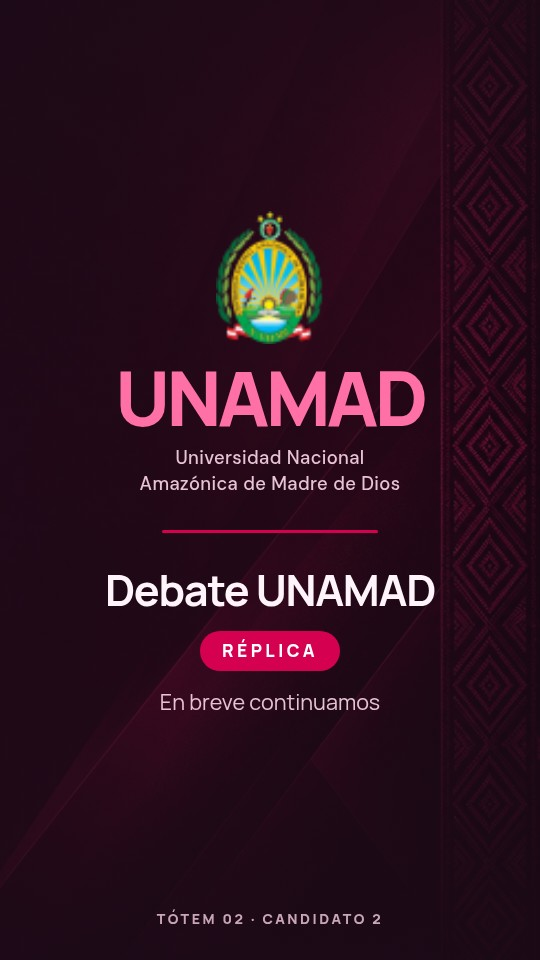
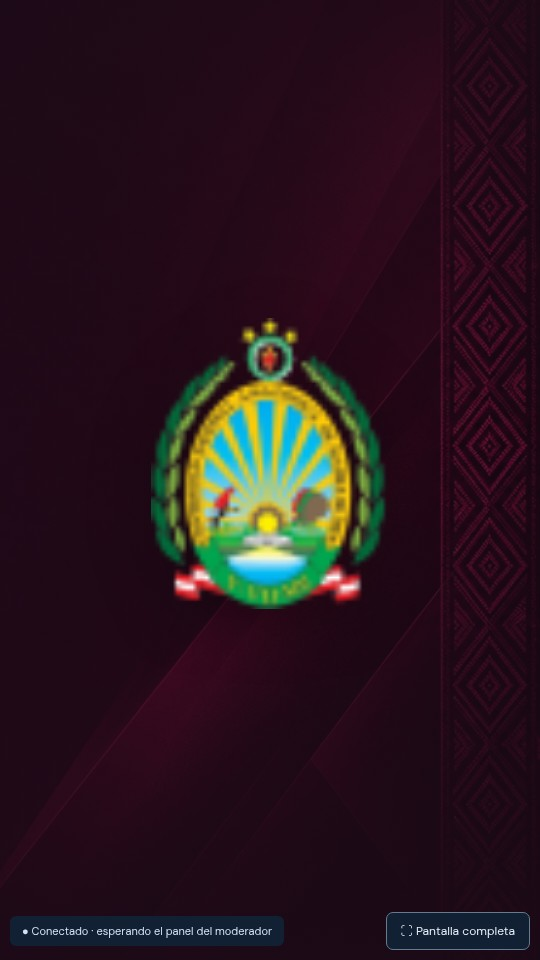
Fondo de espera solo con el escudo de la UNAMAD, sin texto

Changed region(s): [[0.1778, 0.2188, 0.8, 0.75], [0.0, 0.9375, 0.9778, 1.0]]

diff --git a/public/app.js b/public/app.js
@@ -68,12 +68,6 @@ function standbyOn() {
   idleSince ??= Date.now();
   return state.standby.enabled && Date.now() - idleSince >= STANDBY_DELAY;
 }
-const debateStarted = () =>
-  state.candidates.some((c) =>
-    Object.values(c.spoken || {}).some((ms) => ms > 0),
-  );
-const waitingText = () =>
-  debateStarted() ? "En breve continuamos" : "El debate comenzará en breve";
 // Carga una imagen guardada en un <img>; holder recuerda cuál está puesta.
 function showAsset(holder, img, asset, alt) {
   if (holder.dataset.asset === asset) return;
@@ -848,7 +842,7 @@ function renderDisplay() {
   }
   document.title = "Tótem " + displayId + " — Debate UNAMAD";
   $("app").innerHTML =
-    `<section class="signage-screen" id="projection">${Totem.stageHTML()}<div class="standby-screen" id="standby" hidden><img class="standby-image" id="standby-image" alt="" hidden><div class="standby-default"><img class="standby-crest" src="assets/unamad-escudo-oficial.png" alt="Escudo de la UNAMAD"><div class="standby-wordmark">UNAMAD<span>Universidad Nacional Amazónica de Madre de Dios</span></div><div class="standby-rule"></div><h1 id="standby-event"></h1><p class="standby-round" id="standby-round"></p><p class="standby-note" id="standby-note"></p><p class="standby-seat" id="standby-seat"></p></div></div><div class="unassigned-note" id="unassigned" hidden><img src="assets/unamad-escudo-oficial.png" alt=""><strong>Tótem ${displayId}</strong><span>Sin candidato asignado</span><small>El moderador puede agregarlo en «Configurar debate».</small></div>${screenTools}</section>`;
+    `<section class="signage-screen" id="projection">${Totem.stageHTML()}<div class="standby-screen" id="standby" hidden><img class="standby-image" id="standby-image" alt="" hidden><div class="standby-default"><img class="standby-crest" src="assets/unamad-escudo-oficial.png" alt="Escudo de la UNAMAD"></div></div><div class="unassigned-note" id="unassigned" hidden><img src="assets/unamad-escudo-oficial.png" alt=""><strong>Tótem ${displayId}</strong><span>Sin candidato asignado</span><small>El moderador puede agregarlo en «Configurar debate».</small></div>${screenTools}</section>`;
   setupScreen($("projection"));
 }
 function renderOverview() {
@@ -868,7 +862,7 @@ function renderPublic() {
   document.body.classList.add("display-body", "overview-body");
   document.title = "Pantalla del público — Debate UNAMAD";
   $("app").innerHTML =
-    `<section class="public-screen" id="public">${brandHead("pub")}<div class="public-body" id="pub-body"><div class="public-photo" id="pub-photo"><img id="pub-image" alt="" hidden><div class="public-placeholder"><svg viewBox="0 0 160 190" fill="none" aria-hidden="true"><circle cx="80" cy="57" r="32" fill="currentColor"/><path d="M15 182v-17a65 65 0 0 1 130 0v17" fill="currentColor"/></svg></div></div><div class="public-info"><span class="public-label" id="pub-label"></span><h1 id="pub-name"></h1><p id="pub-role"></p><div class="public-clock"><span class="public-caption" id="pub-caption"></span><div class="public-time" id="pub-time"></div><div class="public-status"><i></i><span id="pub-status"></span></div><div class="ov-track"><div id="pub-progress"></div></div></div></div></div><div class="public-empty" id="pub-empty" hidden><img class="public-empty-crest" src="assets/unamad-escudo-oficial.png" alt="Escudo de la UNAMAD"><div class="standby-wordmark">UNAMAD<span>Universidad Nacional Amazónica de Madre de Dios</span></div><h1 id="pub-empty-title"></h1><p id="pub-empty-sub"></p></div><img class="public-standby-image" id="pub-standby-image" alt="" hidden>${screenTools}</section>`;
+    `<section class="public-screen" id="public">${brandHead("pub")}<div class="public-body" id="pub-body"><div class="public-photo" id="pub-photo"><img id="pub-image" alt="" hidden><div class="public-placeholder"><svg viewBox="0 0 160 190" fill="none" aria-hidden="true"><circle cx="80" cy="57" r="32" fill="currentColor"/><path d="M15 182v-17a65 65 0 0 1 130 0v17" fill="currentColor"/></svg></div></div><div class="public-info"><span class="public-label" id="pub-label"></span><h1 id="pub-name"></h1><p id="pub-role"></p><div class="public-clock"><span class="public-caption" id="pub-caption"></span><div class="public-time" id="pub-time"></div><div class="public-status"><i></i><span id="pub-status"></span></div><div class="ov-track"><div id="pub-progress"></div></div></div></div></div><div class="public-empty" id="pub-empty" hidden><img class="public-empty-crest" src="assets/unamad-escudo-oficial.png" alt="Escudo de la UNAMAD"></div><img class="public-standby-image" id="pub-standby-image" alt="" hidden>${screenTools}</section>`;
   setupScreen($("public"));
 }
 function renderSpeaker() {
@@ -891,12 +885,8 @@ function paintPublic() {
     c ? "" : state.standby.horizontal || "",
     "Fondo de espera",
   );
+  $("public").classList.toggle("standby", !c);
   if (!c) {
-    setText("pub-empty-title", state.event);
-    setText(
-      "pub-empty-sub",
-      (round ? "Ronda: " + round.name + " · " : "") + waitingText(),
-    );
     connectionLabel();
     return;
   }
@@ -995,16 +985,8 @@ function paintDisplay() {
   connectionLabel();
 }
 function paintStandby(c) {
-  const round = activeRound(),
-    theme = c ? Totem.normalize(c.design, c.id).theme : "dark";
+  const theme = c ? Totem.normalize(c.design, c.id).theme : "dark";
   $("standby").className = "standby-screen theme-" + theme;
-  setText("standby-event", state.event);
-  setText("standby-round", round ? round.name : "");
-  setText("standby-note", waitingText());
-  setText(
-    "standby-seat",
-    "TÓTEM " + two(displayId) + (c ? " · " + c.name : ""),
-  );
   showAsset(
     $("standby"),
     $("standby-image"),

diff --git a/public/debate.css b/public/debate.css
@@ -1077,8 +1077,9 @@
   padding: 10cqw 8cqw 16cqw;
 }
 .standby-crest {
-  width: 20cqw;
+  width: 44cqw;
   height: auto;
+  filter: drop-shadow(0 2cqw 6cqw #0006);
 }
 .standby-wordmark {
   font-family: Manrope, sans-serif;
@@ -1151,6 +1152,14 @@
 }
 .theme-light .standby-seat {
   color: #9b7283;
+}
+.public-screen.standby .overview-head {
+  visibility: hidden;
+}
+.public-empty .public-empty-crest {
+  height: 42vh;
+  width: auto;
+  filter: drop-shadow(0 2vh 6vh #0006);
 }
 .public-standby-image {
   position: absolute;

diff --git a/public/index.html b/public/index.html
@@ -268,8 +268,8 @@
         </div>
       </div>
       <p class="small muted">
-        Sin imagen se usa el fondo institucional de la UNAMAD con el nombre del
-        evento y la ronda. JPG, PNG o WebP; por ejemplo, el afiche del evento.
+        Sin imagen se muestra el escudo de la UNAMAD sobre el fondo
+        institucional. JPG, PNG o WebP; por ejemplo, el afiche del evento.
       </p>
       <div class="dialog-actions">
         <button type="button" class="secondary" data-close="standby-dialog">

diff --git a/README.md b/README.md
@@ -23,7 +23,7 @@ Sistema para moderar los tiempos de un debate: un panel protegido para el modera
   - Una **pantalla del público** (16:9) con el candidato presentado, su foto y su tiempo.
   - Una **pantalla de los candidatos** con un cronómetro gigante que cambia de verde a ámbar y a rojo.
   - El moderador pulsa **Presentar en pantalla** y luego **▶** para iniciar el conteo.
-- **Fondo de espera:** cuando nadie está hablando, los tótems muestran el fondo institucional (escudo, UNAMAD, universidad, evento y ronda) o la imagen que subas, por ejemplo el afiche del evento. La pantalla del público hace lo mismo cuando no hay nadie presentado.
+- **Fondo de espera:** cuando nadie está hablando, los tótems muestran solo el escudo de la UNAMAD sobre el fondo institucional, o la imagen que subas, por ejemplo el afiche del evento. La pantalla del público hace lo mismo cuando no hay nadie presentado.
 - Cada tótem **recuerda su enlace** 30 días: después de abrirlo una vez, basta con `?pantalla=N`.
 - Evitan que la pantalla se apague, ocultan el cursor y funcionan en modo quiosco.
 - **Vista general 16:9** con todos los candidatos y el orador actual, para el proyector. Tiene una variante con fondo transparente para OBS.
@@ -115,7 +115,7 @@ La vista previa al compartir usa `https://debate-u-nine.vercel.app/assets/og-deb
 
 - Activa o desactiva el fondo de los tótems. Aparece 4 segundos después de que nadie esté hablando y desaparece al iniciar un turno.
 - Opcionalmente, sube una imagen vertical (1080 × 1920) para los tótems y otra horizontal (1920 × 1080) para la pantalla del público.
-- Sin imágenes se usa el fondo institucional de la UNAMAD.
+- Sin imágenes se muestra solo el escudo de la UNAMAD, sin texto.
 
 En pantalla única, el botón **▣ Fondo** de la barra «En pantalla» pausa el turno y muestra el fondo en la pantalla del público.
 
